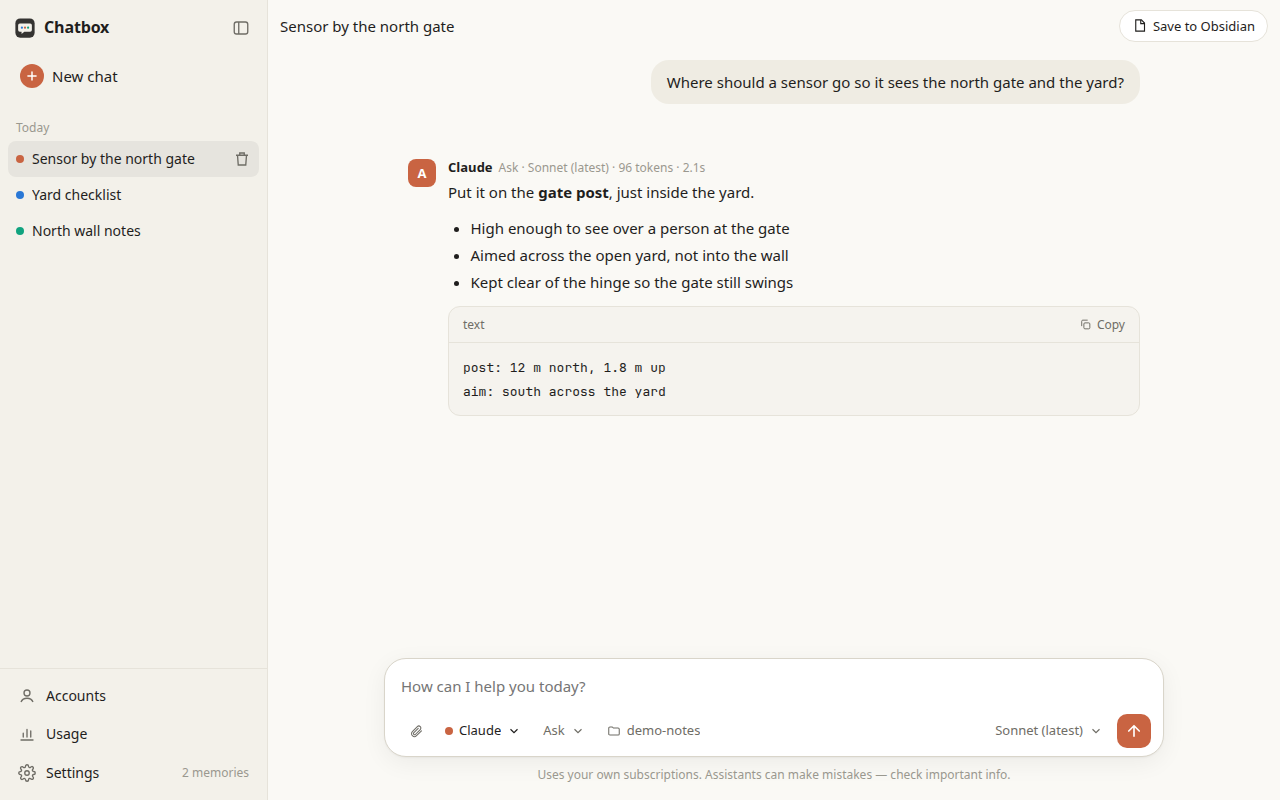
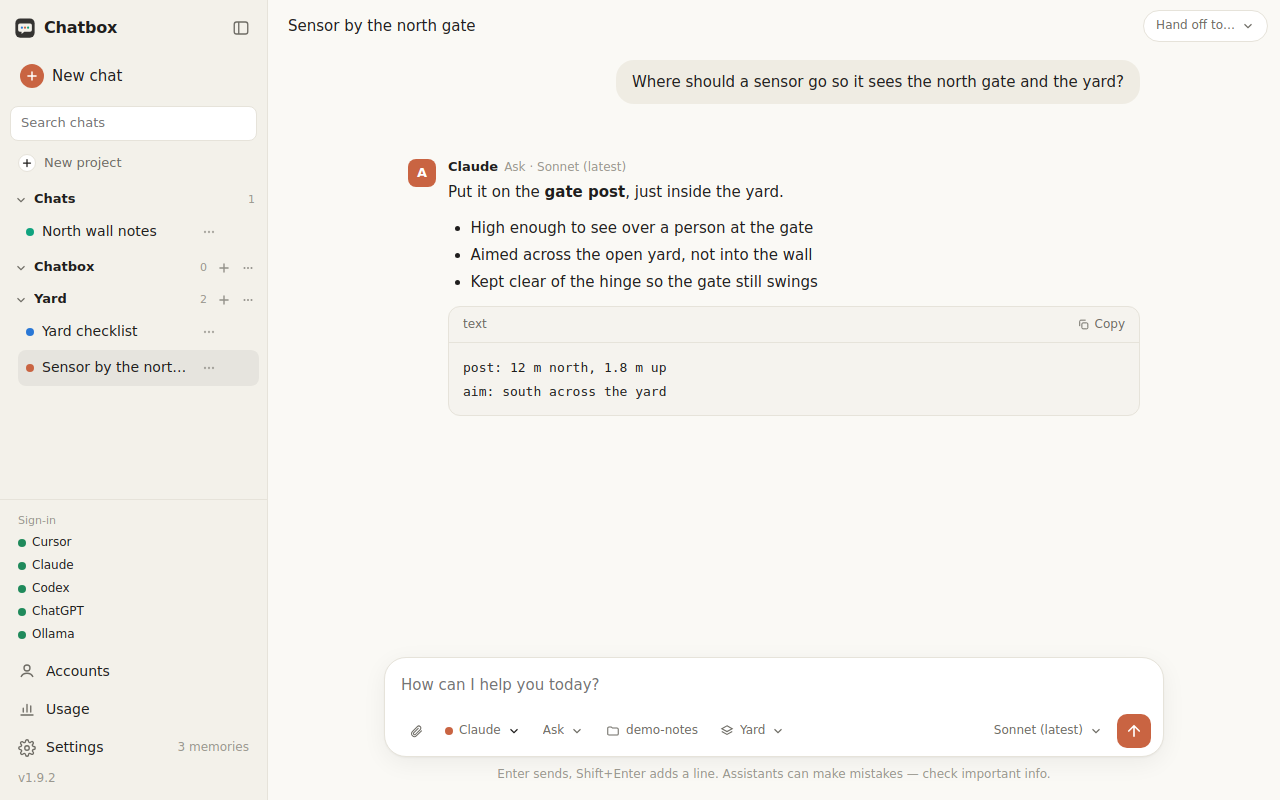
docs: retake the README screenshots for the new screens (#25)
Replace the chat, assistant menu, Settings and Memory screenshots with
the current design, add an Accounts screenshot, and rewrite the captions
to match. All images use demo data.

Also make the version in the Settings sidebar the same size as the
"Chatbox" text next to it.

diff --git a/ui/style.css b/ui/style.css
@@ -451,3 +451,4 @@ dialog#dbrowse{width:min(520px,calc(100vw - 32px))}
 #aboutline[hidden]{display:none}
 .set-ver{white-space:nowrap}
 .set-ver .appver{display:inline;padding:0}
+.set-ver .appver{font-size:inherit}

diff --git a/README.md b/README.md
@@ -4,7 +4,7 @@ One chat window for **Cursor**, **Claude**, **Codex**, **ChatGPT** and **Ollama*
 
 ![Main chat window](docs/screenshots/chat.png)
 
-The main window, with a short conversation and saved chats in the sidebar.
+The main window: a short conversation, chats grouped by project in the sidebar, and the assistant, mode, folder and project pickers in the message box.
 
 ## What it does
 
@@ -23,15 +23,18 @@ The assistant menu: Cursor, Claude, Codex, ChatGPT, and Ollama.
 </td>
 <td width="50%" valign="top">
 <img src="docs/screenshots/settings.png" alt="Settings"><br>
-Settings, with Sync through an Obsidian vault and the Updates section.
+Settings → Notes: keep chats and memories in an Obsidian vault, inside Chatbox, or nowhere.
 </td>
 </tr>
 <tr>
 <td width="50%" valign="top">
 <img src="docs/screenshots/memory.png" alt="Memory"><br>
-Shared memories in Settings, including the option to keep them in Obsidian.
+Settings → Memory: facts every assistant gets, with switches for using and auto-saving them.
 </td>
-<td></td>
+<td width="50%" valign="top">
+<img src="docs/screenshots/accounts.png" alt="Accounts"><br>
+Accounts: one card per assistant, showing whether it is connected and the one thing to do next.
+</td>
 </tr>
 </table>
 
